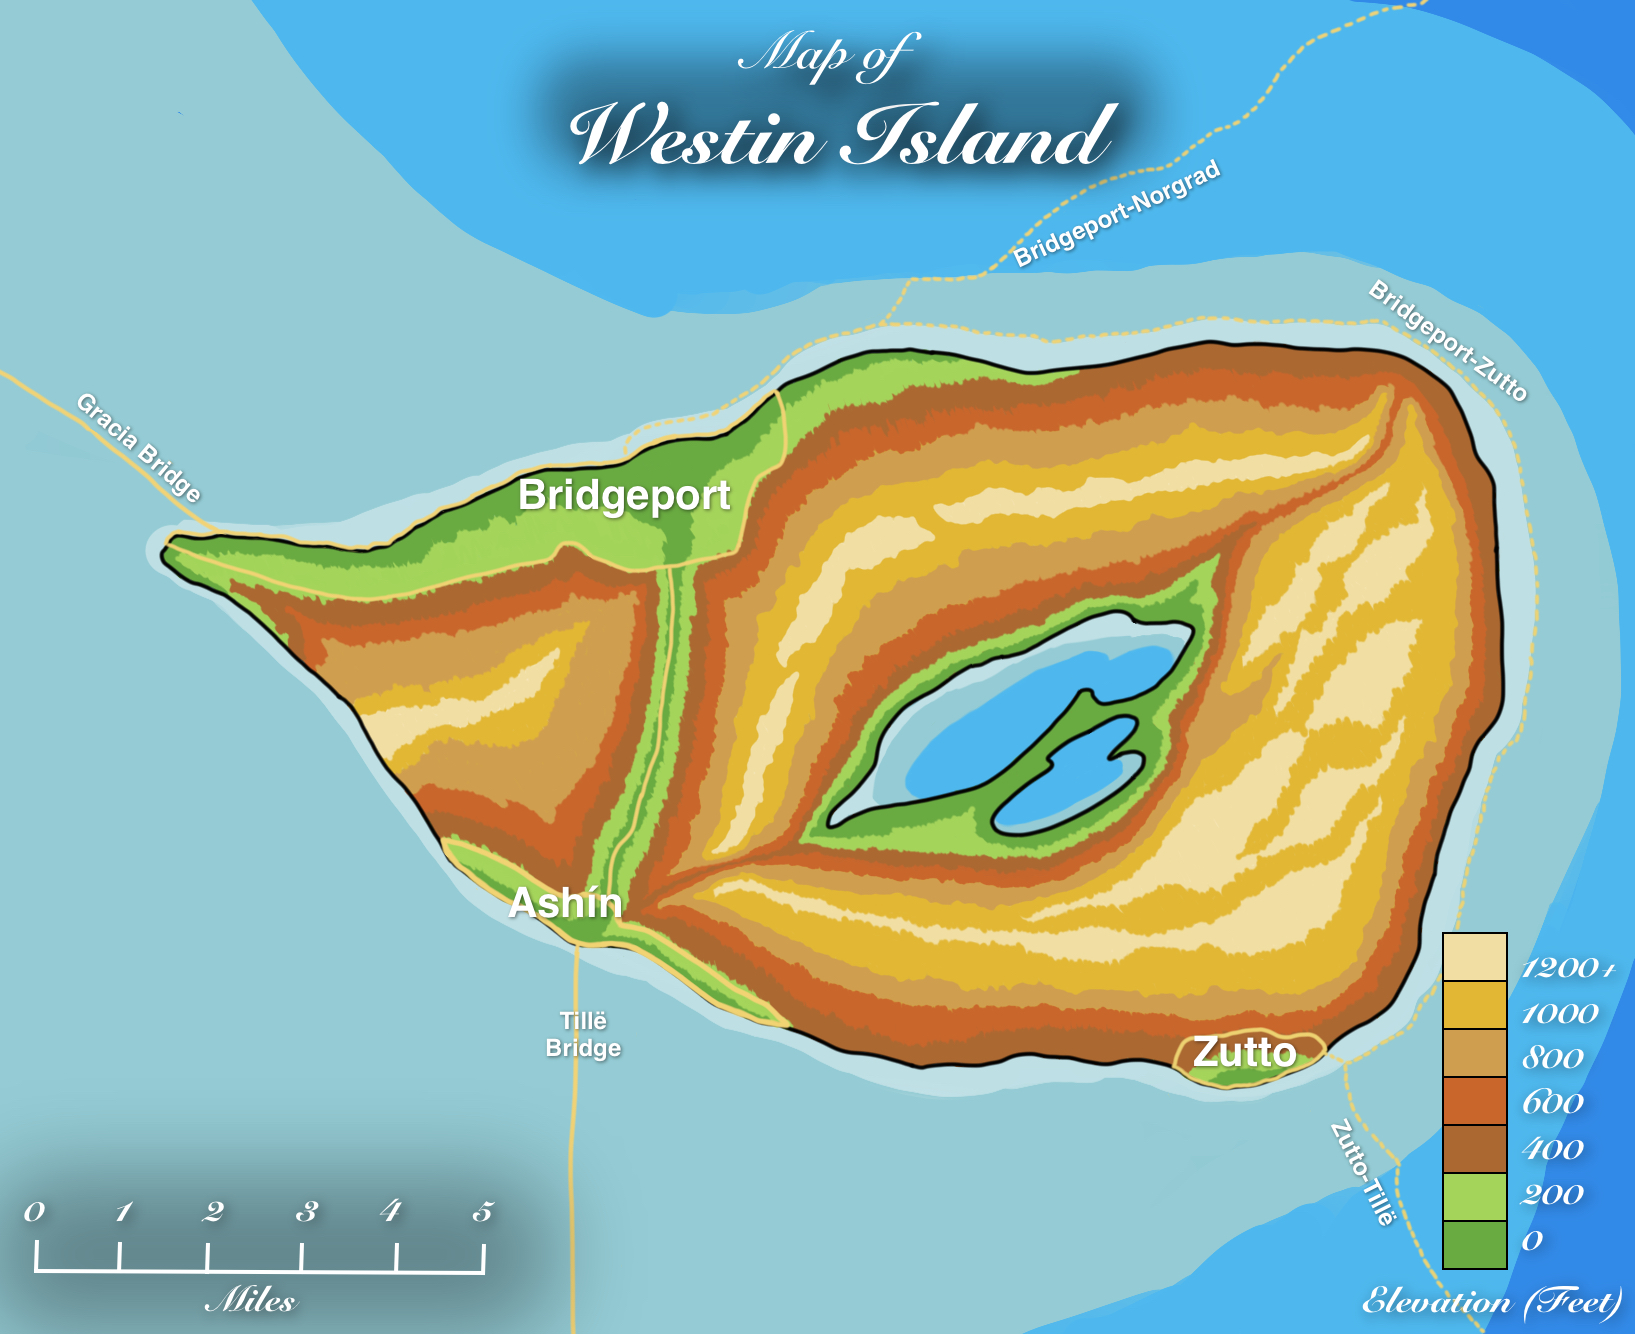
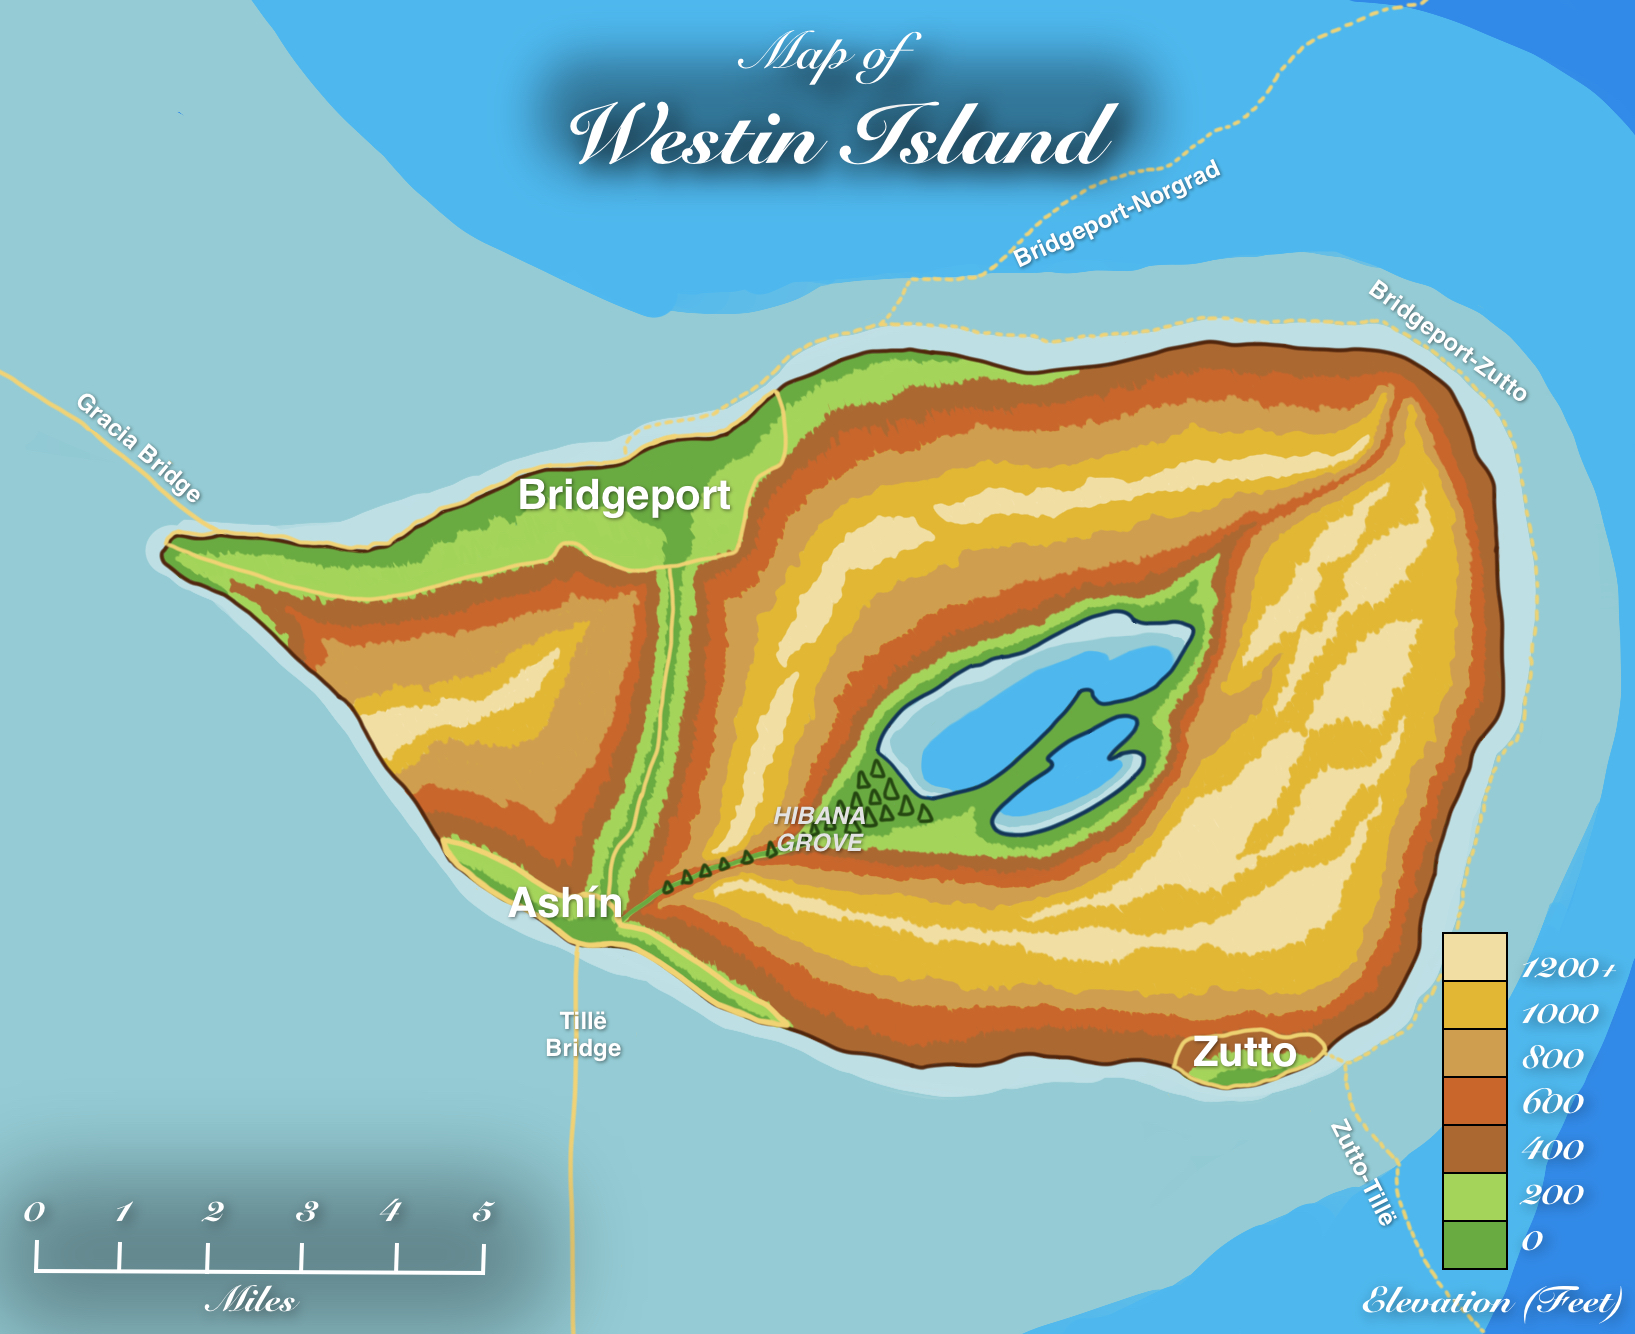
added Hibana Grove
- added Hibana Grove to Westin Island map (inland forest NE of Ashín)
- color-coded outlines by type (brown for islands, blue for lakes, green for forests) for less harsh contrast
- updated alt text to reflect map changes

diff --git a/docs/ch-4-esterfell-gazetteer/esterfell/lenya/esterfell-sea/westin-island/index.md b/docs/ch-4-esterfell-gazetteer/esterfell/lenya/esterfell-sea/westin-island/index.md
@@ -3,6 +3,6 @@
 **Westin Island** is a small body of land on the western edge of the [Esterfell Sea](../). The settlement of [Bridgeport](../../../../../ch-2-people-of-mote/societies/esterfell-accord/bridgeport/) was built on the island to act as a midpoint for the [Bridge of Commerce](../../../../../ch-2-people-of-mote/societies/esterfell-accord/road-of-commerce.md), with [Ashín](../../../../../ch-2-people-of-mote/societies/esterfell-accord/ashin/) and [Zutto](../../../../../ch-2-people-of-mote/societies/esterfell-accord/zutto/) serving as smaller settlements and ports.
 
 <figure>
-  <img src="map-westin-island-mario-panighetti.jpg" alt="Drawing of a map of Westin Island with its settlements, bridges, and ship routes. The settlements are labeled with their names and are listed here from west to east: Bridgeport to the northwest, with a road headed south toward Ashín, a bridge going northwest toward Gracia, a ship route headed northeast toward Norgrad, and another route circling the island clockwise toward Zutto; Ashín to the southwest, connected by road headed north to Bridgeport and by a bridge headed south to Tillë; and Zutto to the southeast, connected by ship routes to Bridgeport (counter-clockwise around Westin Island) and Tillë (southeast)." />
+  <img src="map-westin-island-mario-panighetti.jpg" alt="Drawing of a map of Westin Island with its natural formations, settlements, bridges, ship routes. Natural labels from west to east: Hibana Grove, roughly in the center of Westin and southwest of twin lakes. Artifical labels from west to east: Bridgeport to the northwest, with a road headed south toward Ashín, a bridge going northwest toward Gracia, a ship route headed northeast toward Norgrad, and another route circling the island clockwise toward Zutto; Ashín on the southwest coast, connected by road headed north to Bridgeport and by a bridge headed south to Tillë; and Zutto to the southeast, connected by ship routes to Bridgeport (counter-clockwise around Westin Island) and Tillë (southeast)." />
   <figcaption>Westin Island Map by <a href="https://mario.panighetti.net">Mario Panighetti</a></figcaption>
 </figure>
